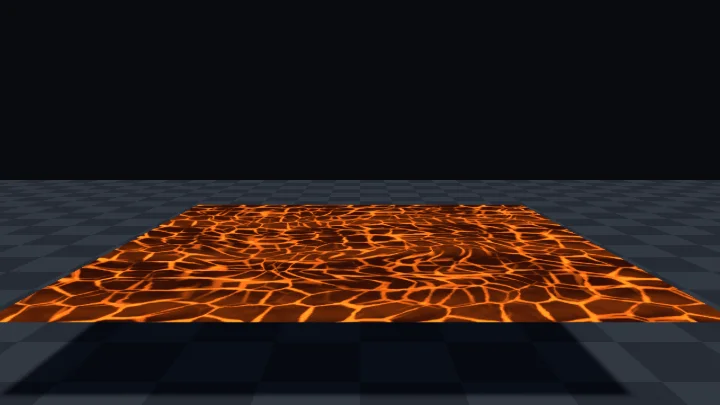
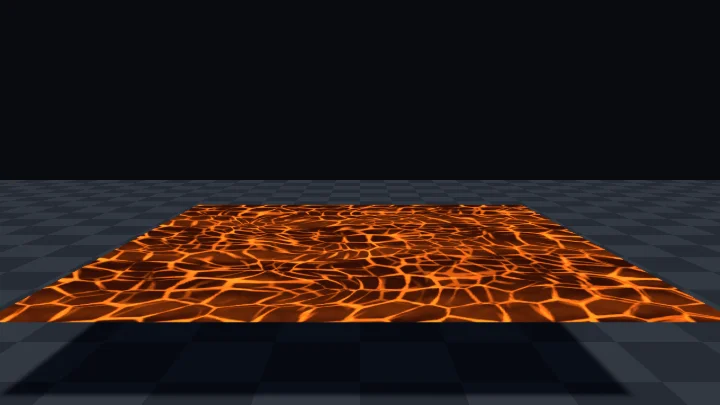
dispatch(flow-map-liquid-fix): 표본 수정: flow-map-liquid 리뷰 반영
Dispatch-Job: flow-map-liquid-fix
Dispatch-Profile: org
Dispatch-Model: claude-opus-5-5

Changed region(s): [[0.0306, 0.5037, 1.0, 0.8], [0.0, 0.7704, 0.0306, 0.8]]

diff --git a/web/src/specimens/flow-map-liquid/meta.ts b/web/src/specimens/flow-map-liquid/meta.ts
@@ -28,7 +28,7 @@ export const meta: SpecimenMeta = {
   params: [
     { key: '_FlowStrength', label: '흐름 세기', type: 'range', min: 0, max: 0.4, step: 0.01, default: 0.12, hint: '한 주기 동안 무늬가 밀려 가는 거리(평면 한 변에 대한 비율). 크면 멀리 흐르는 대신 무늬가 길게 늘어나고 찢어진다. 0 이면 멈춘다' },
     { key: '_Speed', label: '속도', type: 'range', min: 0, max: 2, step: 0.05, default: 0.5, hint: '1초에 도는 주기 수. 세기를 그대로 두고 올리면 같은 늘어남으로 더 빨리 흐른다' },
-    { key: '_PatternScale', label: '무늬 반복 수', type: 'range', min: 1, max: 8, step: 0.5, default: 3, hint: '평면 한 변에 무늬 텍스처가 몇 번 반복되는지. 클수록 세포가 잘다. 흐르는 거리는 그대로라 무늬에 견줘 더 많이 늘어난다' },
+    { key: '_PatternScale', label: '무늬 반복 수', type: 'range', min: 1, max: 8, step: 1, default: 3, hint: '평면 한 변에 무늬 텍스처가 몇 번 반복되는지. 클수록 세포가 잘다. 흐르는 거리는 그대로라 무늬에 견줘 더 많이 늘어난다. 정수여야 평면을 이어 깔았을 때 경계에서 무늬가 맞는다' },
     { key: '_PhaseNoise', label: '위상 노이즈', type: 'range', min: 0, max: 1, step: 0.05, default: 1, hint: '자리마다 위상을 어긋나게 하는 양. 0 이면 표면 전체가 같은 순간에 흐려졌다 또렷해지기를 되풀이한다' },
     { key: '_DeepColor', label: '어두운 색', type: 'color', default: '#2b0a05', hint: '무늬의 어두운 부분 (용암의 식은 껍질, 깊은 물)' },
     { key: '_BrightColor', label: '밝은 색', type: 'color', default: '#ff6a14', hint: '무늬의 밝은 실금 (용암의 갈라진 틈, 물의 거품)' },
@@ -46,22 +46,22 @@ export const meta: SpecimenMeta = {
     loops: [{ key: '_FlowStrength', frames: [[0, 0.12], [3, 0.3], [4.5, 0.3], [7.5, 0.04], [9, 0.04], [11, 0.12]], ease: 'inOutSine' }],
   },
   steps: [
-    { n: 1, label: '플로 맵', body: '플로 맵 텍스처의 R, G 를 그대로 색으로 본다. R 은 u(화면 오른쪽), G 는 v(화면 안쪽) 방향 흐름이고 0.5 가 멈춤이다. 멈춘 곳은 앞쪽 가장자리처럼 노랗게 보인다. 앞쪽 가운데의 주황은 오른쪽으로, 오른쪽의 연두는 안쪽으로, 먼 쪽의 초록은 왼쪽으로, 왼쪽의 빨강은 카메라 쪽으로 흐른다는 뜻이다. 이어 보면 위에서 내려다볼 때 가운데를 중심으로 반시계 방향으로 도는 소용돌이다.' },
+    { n: 1, label: '플로 맵', body: '플로 맵 텍스처의 R, G 를 그대로 색으로 본다. R 은 u, G 는 v 방향 흐름이고 0.5 가 멈춤이다. 이 평면은 Unity 기본 Plane 과 UV 가 같아 u 는 화면 왼쪽, v 는 카메라 쪽으로 커진다. 그래서 빨강이 강하면 왼쪽으로, 초록이 강하면 카메라 쪽으로 흐르고, 색이 진할수록 빠르다. 멈춘 곳은 네 가장자리처럼 노랗게 보인다. 먼 쪽의 주황은 왼쪽으로, 왼쪽의 연두와 앞쪽 가운데의 초록은 카메라 쪽으로, 오른쪽의 탁한 올리브색은 안쪽으로 흐른다. 가장 빠른 곳은 먼 쪽 가장자리 가까이 오른쪽에 있는 진한 빨강으로, 왼쪽 안으로 꺾여 흐른다. 이어 보면 위에서 내려다볼 때 가운데를 중심으로 반시계 방향으로 도는 소용돌이다.' },
     { n: 2, label: '위상 하나', body: '첫 번째 위상 하나로만 무늬를 흘린 밝기다. 위상이 0 에서 1 로 가는 동안 세포 무늬가 흐름을 따라 밀리며 늘어나다가, 위상이 0 으로 돌아가는 순간 원래 모양으로 튄다. 위상 노이즈 때문에 튀는 때가 자리마다 달라서, 화면에는 늘어난 무늬와 반듯한 무늬가 가는 경계선을 사이에 두고 붙어 있고 그 경계가 표면 위를 훑고 지나간다.' },
     { n: 3, label: '두 위상 섞기', body: '반 주기 어긋난 두 번째 층을 삼각파 가중치로 섞었다. 한 층이 튀는 자리에서는 그 층의 가중치가 0 이라 2단계의 경계선이 사라진다. 대신 두 층이 반반 섞이는 곳은 실금이 두 겹으로 겹쳐 조금 흐리다. 위상 노이즈를 0 으로 내리면 이 겹침이 표면 전체에 같은 순간에 와서 화면이 주기적으로 통째로 흐려진다. 이 밝기로 두 색을 섞고 조명과 발광을 더하면 최종 화면이다.' },
   ],
   offNote: '위상 `frac(time * 속도)` 하나만 쓰고 위상 노이즈도 뺀 흔한 실수다. 무늬가 소용돌이를 따라 늘어나다가 한 주기(속도 0.5 면 2초)마다 표면 전체가 한꺼번에 처음 무늬로 튄다. 막 튄 뒤에는 세포가 반듯하고 튀기 직전에는 길게 늘어져 있어 몇 초만 보면 반복 주기가 드러난다. 이 표본은 알파가 항상 1 이라 그림자는 효과를 켰을 때와 같다.',
   mistakes: [
     { title: '무늬가 몇 초마다 한꺼번에 원래대로 튄다', body: '`frac(time)` 위상 하나로만 UV 를 밀면 위상이 1 에서 0 으로 돌아가는 순간 무늬가 처음 자리로 돌아간다. 반 주기 어긋난 위상을 하나 더 두고 `1 - abs(1 - 2 * phase)` 삼각파 가중치로 섞으면, 한 층이 튀는 순간 그 층의 가중치가 0 이라 보이지 않는다.' },
-    { title: '흐름이 한쪽으로 쏠리고 멈춰야 할 곳도 움직인다', body: '플로 맵을 sRGB(Color Texture)로 들여오면 0.5 가 약 0.21 로 읽혀 모든 자리에 왼쪽 아래로 미는 흐름이 더해진다. 플로 맵 텍스처의 Inspector 에서 sRGB (Color Texture) 를 끈다. RG 값을 `* 2 - 1` 로 되돌리는 것도 잊지 않는다.' },
+    { title: '흐름이 한쪽으로 쏠리고 멈춰야 할 곳도 움직인다', body: '플로 맵을 sRGB(Color Texture)로 들여오면 0.5 가 약 0.21 로 읽혀 모든 자리에 UV 의 (−u, −v) 대각선 쪽으로 미는 흐름이 더해진다 (기본 Plane 에서는 +X, +Z 쪽). 플로 맵 텍스처의 Inspector 에서 sRGB (Color Texture) 를 끈다. RG 값을 `* 2 - 1` 로 되돌리는 것도 잊지 않는다.' },
     { title: '표면 전체가 주기적으로 흐려졌다 또렷해진다', body: '두 위상을 섞어도 위상이 모든 자리에서 같으면 두 층이 반반 섞이는 순간(위상 0.25, 0.75)이 한꺼번에 와 무늬가 통째로 흐려진다. 위상에 노이즈를 더해 자리마다 그 순간을 다르게 한다. 위상 노이즈를 0 으로 내려 비교해 본다.' },
     { title: '무늬가 길게 찢어져 알아볼 수 없다', body: '흐름 세기가 크면 한 주기 동안 이웃 자리끼리 밀리는 거리 차이가 커져 무늬가 늘어진다. 세기를 낮추고 속도를 올려 같은 빠르기를 낸다. 무늬 반복 수를 올려도 무늬에 견줘 늘어남이 커진다.' },
-    { title: '평면 가장자리나 이웃 타일 사이에 줄이 생긴다', body: '플로 맵이나 무늬 텍스처의 Wrap Mode 가 Clamp 이거나, 플로 맵이 가장자리에서 이어지지 않게 그려졌다. 두 텍스처를 Repeat 로 두고, 플로 맵은 왼쪽과 오른쪽, 위와 아래 가장자리의 흐름이 맞게 만든다.' },
+    { title: '평면을 이어 깔면 경계에 줄이 생기거나 무늬가 어긋난다', body: '경계 양쪽에서 읽는 값이 하나라도 다르면 이음매가 생긴다. 네 가지를 맞춘다. (1) 두 텍스처의 Wrap Mode 를 Repeat 로 둔다. (2) 플로 맵의 흐름(RG)은 왼쪽과 오른쪽, 위와 아래 가장자리가 이어지게 그린다. (3) 위상 노이즈도 0~1 에서 반복해야 한다. 이 표본은 반복하는 노이즈를 플로 맵 B 채널에 담아 읽으므로 B 도 가장자리가 이어지게 만든다. 셰이더에서 노이즈를 계산하도록 바꾸면 `uv * 7` 처럼 정수 칸으로 나누고 해시에 넣는 칸 번호를 7 로 감싼다. 감싸지 않으면 경계 양쪽의 위상이 달라 가장자리에 남은 흐름만큼 무늬가 엇나간다. (4) 무늬 반복 수를 1, 2, 3 같은 정수로 둔다. 2.5 처럼 정수가 아니면 이웃 평면의 무늬가 이어지지 않는다.' },
   ],
   unity: {
     setup: [
       '`FlowMapLiquid.shader`, `core.hlsl`, `FlowMapLiquidFlow.png`, `FlowMapLiquidPattern.png` 를 `Assets/Shaders/flow-map-liquid/` 에 둔다.',
-      'Project 창에서 `FlowMapLiquidFlow.png` 를 고르고 Inspector 에서 Texture Type 은 Default, sRGB (Color Texture) 는 끄고, Wrap Mode 는 Repeat, Filter Mode 는 Bilinear 로 맞춘 뒤 Apply 를 누른다. 방향 데이터라 압축 품질이 낮으면 흐름이 계단처럼 끊기므로 Compression 은 None 이나 High Quality 로 둔다.',
+      'Project 창에서 `FlowMapLiquidFlow.png` 를 고르고 Inspector 에서 Texture Type 은 Default, sRGB (Color Texture) 는 끄고, Wrap Mode 는 Repeat, Filter Mode 는 Bilinear 로 맞춘 뒤 Apply 를 누른다. RG 에 흐름 방향, B 에 위상 노이즈가 든 데이터 텍스처다. 압축 품질이 낮으면(모바일 ASTC, ETC 저품질 포함) 방향 값이 뭉개져 흐름이 계단처럼 끊기므로 Compression 은 None 이나 High Quality 로 둔다. 64 픽셀이라 압축하지 않아도 작다.',
       '`FlowMapLiquidPattern.png` 는 Texture Type 은 Default, sRGB (Color Texture) 는 켜고, Wrap Mode 는 Repeat, Filter Mode 는 Bilinear 로 맞춘 뒤 Apply 를 누른다.',
       '셰이더를 우클릭해 Create > Material 로 머티리얼을 만들고 플로 맵 칸에 `FlowMapLiquidFlow.png`, 흘릴 무늬 칸에 `FlowMapLiquidPattern.png` 를 넣는다.',
       'GameObject > 3D Object > Plane 을 만들어 머티리얼을 넣는다. 용암이면 그대로, 물이면 어두운 색과 밝은 색을 파랑 계열로 바꾸고 밝은 부분 발광을 0 으로 내린다.',
@@ -69,12 +69,13 @@ export const meta: SpecimenMeta = {
     verify: 'Play 하거나 Scene 뷰의 Always Refresh 를 켜면 무늬가 평면 가운데를 중심으로 소용돌이치며 흐르고, 몇 초를 지켜봐도 무늬가 한꺼번에 원래대로 튀지 않는다. 흐름 세기를 0 으로 내리면 무늬가 멈추고, 0.4 로 올리면 길게 늘어난다.',
     pitfalls: [
       '이 셰이더는 불투명 3D 메시용이다. 패스가 `UniversalForwardOnly` 라 2D Renderer 에서는 그려지지 않는다. 3D 프로젝트에서 쓴다.',
-      '흐름 방향은 메시 UV 기준이다. 같은 플로 맵이라도 UV 가 돌아 있거나 뒤집힌 메시에서는 흐름 방향이 달라진다. Unity 기본 Plane 은 UV 가 다른 메시와 다르게 놓여 있을 수 있으니, 강처럼 방향이 있는 플로 맵은 넣은 뒤 흐르는 쪽을 눈으로 확인하고 필요하면 텍스처를 돌리거나 R, G 부호를 바꾼다. 이 표본의 소용돌이는 UV 가 180도 돌아도 같은 쪽으로 돈다.',
+      '흐름 방향은 메시 UV 기준이다. Unity 기본 Plane 은 위에서 볼 때 UV 가 180도 돌아 있다 (u 는 −X, v 는 −Z 쪽으로 커진다). 그래서 텍스처 위쪽으로 흐르게 그린 강 맵은 기본 Plane 에서 카메라(−Z) 쪽으로 흐른다. Plane 을 Y 축으로 180도 돌리거나 Quad 를 X 축으로 90도 돌려 눕혀 쓰면 텍스처 위쪽이 +Z, 오른쪽이 +X 가 된다. 다른 메시도 UV 가 돌아 있거나 뒤집혀 있으면 흐름 방향이 달라진다. 이 표본의 소용돌이는 180도 돌아도 같은 쪽으로 돌지만 굽이의 배치는 중심 대칭 자리로 옮겨 간다.',
       'Scene 뷰에서 무늬가 멈춰 있으면 Scene 뷰 툴바의 Effects 메뉴(Toggle skybox, fog, and various other effects)에서 Always Refresh 를 켠다. `_Time` 은 편집 모드에서 화면을 다시 그릴 때만 나아간다.',
-      '플로 맵 압축(모바일 ASTC, ETC 저품질)은 방향 값을 뭉개 흐름이 덩어리지게 한다. 작은 해상도(64~128)로 두고 압축 품질을 높이는 편이 낫다.',
       '평면 하나에 플로 맵이 한 번 깔린다. 평면을 크게 키우면 소용돌이도 함께 커진다. 넓은 강은 플로 맵을 강 모양에 맞춰 새로 그리거나 메시 UV 를 강 줄기를 따라 펴서 쓴다.',
+      '위상을 `_Time.y * 속도` 로 만들므로 실행 중에 속도를 바꾸면 그동안 흐른 시간 전체에 변화량이 곱해져 무늬가 한 번에 튄다. 연출로 속도를 바꾸려면 C# 에서 `Time.deltaTime * 속도` 를 쌓아 `Mathf.Repeat(값, 1)` 로 감싼 위상을 머티리얼 값으로 넘기고 셰이더는 그 값을 쓴다. 감싸 두면 오래 켜 둔 장면에서 float 정밀도가 떨어져 무늬가 떨리는 일도 없다.',
+      '이 셰이더는 안개를 처리하지 않아 Fog 를 켠 씬에서 넓은 용암이나 강의 먼 쪽이 안개에 묻히지 않고 그대로 보인다. Forward 패스에 `#pragma multi_compile_fog` 를 넣고 정점에서 `ComputeFogFactor(positionCS.z)` 를 넘긴 뒤, 마지막 색에 `MixFog(color, fogFactor)` 를 건다.',
     ],
-    graph: 'Shader Graph 의 Feature Examples 샘플에 Flow Mapping 예제가 있다. 직접 만들 때는 Sample Texture 2D(플로 맵, Type 을 Normal 이 아닌 Default, sRGB 끈 텍스처)에서 RG 를 꺼내 `* 2 - 1` 하고, Time 노드에 Fraction 노드를 두 번(하나는 0.5 를 더해서) 걸어 위상 두 개를 만든다. 두 위상으로 UV 를 각각 밀어 무늬를 두 번 읽고, `1 - abs(1 - 2 * 위상)` 가중치로 Lerp 한다. `core.hlsl` 을 Custom Function 에 그대로 지정하면 `SgInput`, `SG_TEX` 가 래퍼에만 있어 컴파일되지 않으므로, 쓰려면 `flowWeight` 같은 함수만 새 파일에 옮긴다.',
+    graph: 'Shader Graph 의 Feature Examples 샘플에 Flow Mapping 예제가 있다. 직접 만들 때는 Sample Texture 2D(플로 맵, Type 을 Normal 이 아닌 Default, sRGB 끈 텍스처)에서 RG 를 꺼내 `* 2 - 1` 하고, Time × 속도에 B(위상 노이즈)를 더한 값에 Fraction 노드를 두 번(하나는 0.5 를 더해서) 걸어 위상 두 개를 만든다. 두 위상으로 UV 를 각각 밀어 무늬를 두 번 읽고, `1 - abs(1 - 2 * 위상)` 가중치로 Lerp 한다. `core.hlsl` 을 Custom Function 에 그대로 지정하면 `SgInput`, `SG_TEX` 가 래퍼에만 있어 컴파일되지 않으므로, 쓰려면 `flowWeight` 같은 함수만 새 파일에 옮긴다.',
   },
   prompt: {
     goal: '방향을 담은 플로 맵 텍스처로 무늬를 흘려 용암이나 강물 표면을 만드는 셰이더를 넣는다. 무늬가 주기마다 튀지 않고 끊김 없이 계속 흐른다.',
@@ -84,6 +85,7 @@ export const meta: SpecimenMeta = {
       '용암이 식은 곳은 덜 흐르게 정점 색으로 흐름 세기를 칠하고 싶다.',
       '물체 주변을 피해 돌아가는 흐름을 만들고 싶다.',
       '모바일에서 텍스처 읽기를 줄여 가볍게 하고 싶다.',
+      'Fog 를 켠 넓은 지형에서 먼 강물과 용암이 안개에 자연스럽게 묻히게 하고 싶다.',
     ],
   },
   captures: [
@@ -108,7 +110,7 @@ export const meta: SpecimenMeta = {
   ],
   original: '특정 게임의 재현이 아니라 공개 발표의 원리를 따라 새로 만들었다. 수업 XR 01 Lake Shader Step6 의 법선맵 두 장 스크롤을 방향 텍스처로 넓힌 확장편이고, 3D 05 Terrain Island 의 용암과 강에 쓸 수 있다. 소용돌이 플로 맵, 세포 무늬 텍스처, 코드는 이 갤러리에서 새로 만들었다.',
   references: [
-    { label: 'Vlachos: Water Flow in Portal 2 (SIGGRAPH 2010)', url: 'https://www.advances.realtimerendering.com/s2010/Vlachos-Waterflow(SIGGRAPH%202010%20Advanced%20RealTime%20Rendering%20Course).pdf' },
+    { label: 'Vlachos: 물 흐름 (SIGGRAPH 2010)', url: 'https://www.advances.realtimerendering.com/s2010/Vlachos-Waterflow(SIGGRAPH%202010%20Advanced%20RealTime%20Rendering%20Course).pdf' },
     { label: 'Grimes: 비표준 텍스처 (GDC 2011, Valve)', url: 'https://www.hlportal.de/files/GDC2011_BronwenGrimes_NonstandardTextures.pdf' },
     { label: 'Shader Graph Feature Examples (Flow Mapping 예제)', url: 'https://docs.unity3d.com/Packages/com.unity.shadergraph@17.4/manual/Shader-Graph-Sample-Feature-Examples.html' },
   ],
